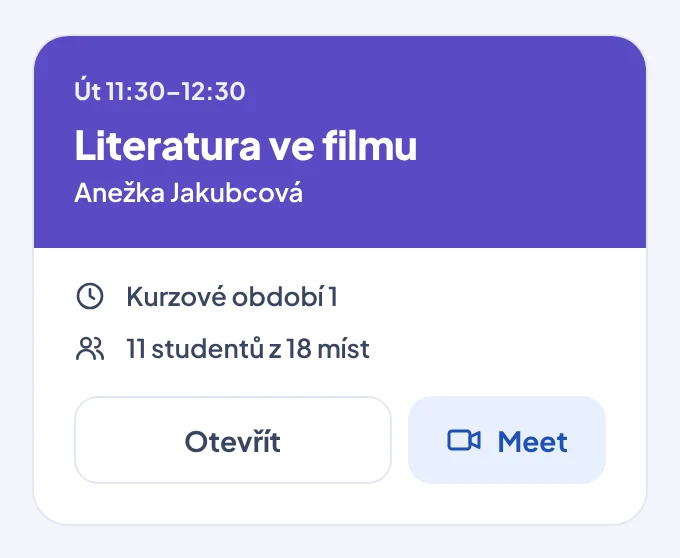
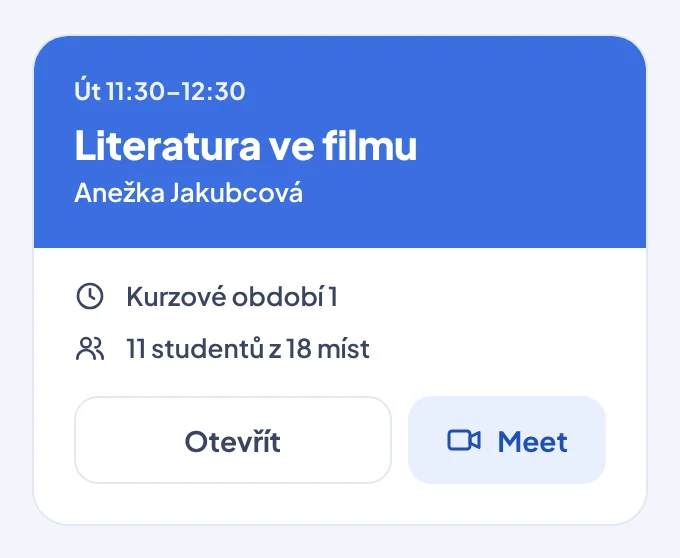
Detail třídy v barvě druhu aktivity (ateliér fialově, událost oranžově, expedice zelenomodře); karty podle druhu; přefocený návod Meet
Claude-Session: https://claude.ai/code/session_01S4k3G4RvgMHKPCyowCDzNN

diff --git a/src/components/classroom/classroom.module.css b/src/components/classroom/classroom.module.css
@@ -75,6 +75,41 @@
   background: #2754bb;
   color: #fff;
 }
+/* Barva třídy podle druhu aktivity — stejný vzhled (kruhy, tlačítka), jiný odstín */
+.hero[data-tone="violet"] {
+  --tone: var(--atelier);
+  --tone-ink: #3e2f9e;
+}
+.hero[data-tone="teal"] {
+  --tone: var(--other);
+  --tone-ink: #0f6b5f;
+}
+.hero[data-tone="orange"] {
+  --tone: var(--event);
+  --tone-ink: #a3420f;
+}
+.hero:is([data-tone="violet"], [data-tone="teal"], [data-tone="orange"]) {
+  background: var(--tone);
+}
+.hero:is([data-tone="violet"], [data-tone="teal"], [data-tone="orange"]) .blob1 {
+  background: color-mix(in srgb, var(--tone), #fff 11%);
+}
+.hero:is([data-tone="violet"], [data-tone="teal"], [data-tone="orange"]) .blob2 {
+  background: color-mix(in srgb, var(--tone), #fff 20%);
+}
+.hero:is([data-tone="violet"], [data-tone="teal"], [data-tone="orange"]) .heroBtn {
+  background: color-mix(in srgb, var(--tone), #000 18%);
+}
+.hero:is([data-tone="violet"], [data-tone="teal"], [data-tone="orange"]) .heroBtn:hover {
+  background: color-mix(in srgb, var(--tone), #000 30%);
+}
+.hero:is([data-tone="violet"], [data-tone="teal"], [data-tone="orange"]) :global(.btn-white) {
+  color: var(--tone-ink);
+}
+.hero:is([data-tone="violet"], [data-tone="teal"], [data-tone="orange"]) :global(.btn-white:hover) {
+  background: color-mix(in srgb, var(--tone), #fff 88%);
+  color: color-mix(in srgb, var(--tone-ink), #000 15%);
+}
 
 .columns {
   display: flex;

diff --git a/src/components/ClassCard.tsx b/src/components/ClassCard.tsx
@@ -87,11 +87,13 @@ export function ClassCard({
   );
 }
 
-/** Barva karty: událost vždy oranžová, expedice zelenomodrá (jako v rozvrhu), jinak uložený odstín. */
+/** Barva aktivity podle druhu (karta, detail třídy, rozvrh): kurz modrá, ateliér fialová,
+ *  událost oranžová, expedice zelenomodrá. */
 export function kindTone(a: Pick<Activity, "kind" | "tone">): CardTone {
   if (a.kind === "ostatni") return "orange";
   if (a.kind === "expedice") return "teal";
-  return a.tone;
+  if (a.kind === "atelier") return "violet";
+  return a.tone === "blueDark" ? "blueDark" : "blue";
 }
 export type CardTone = Activity["tone"] | "orange";
 

diff --git a/src/components/classroom/ClassroomPage.tsx b/src/components/classroom/ClassroomPage.tsx
@@ -138,7 +138,7 @@ export async function ClassroomPage({
         {back.label}
       </Link>
 
-      <section className={styles.hero}>
+      <section className={styles.hero} data-tone={kindTone(activity)}>
         <div aria-hidden="true" className={`${styles.blob} ${styles.blob1}`} />
         <div aria-hidden="true" className={`${styles.blob} ${styles.blob2}`} />
         <div className={styles.heroText}>

diff --git a/CLAUDE.md b/CLAUDE.md
@@ -15,7 +15,7 @@
 - Text `#111A33`, sekundární text `#3A4560`, tlumený text `#5A6782`
 - Primární `#3B6FE0`, tmavší `#2F5FCC`, text na světlém `#1F4FB8`, světlá výplň `#E8EFFD`, `#C9D8FA`
 - Stavy: hotovo `#17704A` na `#E3F4EC`, čeká `#8A5300` na `#FDF1DC`, po termínu `#A82E2E` na `#FBE7E7`
-- Typy aktivit: kurz modrá, ateliér `#5B4BC4` / `#EEEAFD`, expedice `#0F6B5F` / `#E0F2EF`, událost (`ostatni`) oranžová `#B54A12` / `#FDEBDD` (tokeny `--event*`), konzultace v rozvrhu růžová (`--consult*`). Karta aktivity bere barvu z `kindTone()` v `ClassCard.tsx` (událost a expedice podle druhu, ne podle uloženého `tone`).
+- Typy aktivit: kurz modrá, ateliér `#5B4BC4` / `#EEEAFD`, expedice `#0F6B5F` / `#E0F2EF`, událost (`ostatni`) oranžová `#B54A12` / `#FDEBDD` (tokeny `--event*`), konzultace v rozvrhu růžová (`--consult*`). Barvu karty i hlavičky detailu třídy (`.hero[data-tone]` v `classroom.module.css`, stejné kruhy a tlačítka, jen odstín) určuje `kindTone()` v `ClassCard.tsx` podle druhu (kurz modrá / tmavě modrá, ateliér fialová, událost oranžová, expedice zelenomodrá), ne uložený `tone`.
 - Zaoblení: karty 18 px, tlačítka 12 px; dotykové cíle min. 44 px
 
 ## Rozhodnutí
